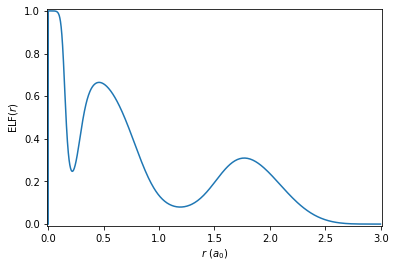
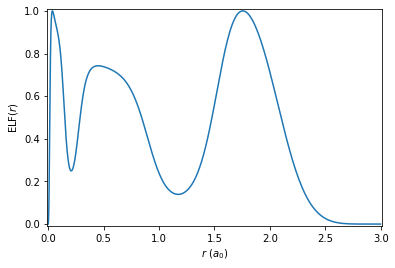
change introduction particularly bandstructure model

diff --git a/supp_info.tex b/supp_info.tex
@@ -386,16 +386,19 @@ background}\label{average-atom-models-theoretical-background}}
 In this section, we describe the average-atom model that we use and the
 equations that are solved. For a detailed derivation and discussion of
 the model, please see our earlier
-\href{https://arxiv.org/abs/2103.09928}{preprint}.
+\href{https://arxiv.org/abs/2103.09928}{preprint}. We shall first review
+the important aspects of this model; in the following sub-section, we
+explain in more detail the band-structure model of Massacrier \emph{et
+al} which we have also implemented in atoMEC.
 
-As discussed in the main test, we solve the spherically symmetric
+As discussed in the main text, we solve the spherically symmetric
 Kohn--Sham (KS) equations for an atom at finite temperature, with
 appropriate boundary conditions imposed on the orbitals intended to
 mimic the effect of interactions from electrons and nuclei in
 neighbouring atoms. The spherically symmetric KS equations are given by
 
 \begin{equation}
-\left[\frac{\textrm{d}^2}{\textrm{d}r} + \frac{2}{r}\frac{\textrm{d}}{\textrm{d}r} - \frac{l(l+1)}{r^2} \right] X_{\epsilon nl}(r) + 2 \left[\epsilon^{\tau}_{knl} - v_\textrm{s}[n](r) \right] X_{\epsilon nl}(r) = 0,
+\left[\frac{\textrm{d}^2}{\textrm{d}r} + \frac{2}{r}\frac{\textrm{d}}{\textrm{d}r} - \frac{l(l+1)}{r^2} \right] X_{nl}(r) + 2 \left[\epsilon^{\tau}_{knl} - v_\textrm{s}[n](r) \right] X_{nl}(r) = 0,
 \end{equation}
 
 where \(v_\textrm{s}[n](r)\) is the KS potential, given by
@@ -411,24 +414,14 @@ to the functional derivative of the xc free energy. As ever, due to the
 dependence of the KS potential on the density \(n(r)\), the KS equations
 must be solved iteratively until self-consistency is reached.
 
-One difference from the model presented in our earlier
-\href{https://arxiv.org/abs/2103.09928}{preprint} is that the orbitals
-now have an index \(\epsilon\), in addition to the \(n,l\) quantum
-numbers. This index is needed for the AA band-structure model, because
-it denotes the index of a given orbital within its energy band. If we do
-not employ the band-strucutre model, then this index is suppressed.
-
-In the general case, the density \(n(r)\) is constructed from the KS
-orbitals as
+The density \(n(r)\) is constructed from the orbitals as
 
 \begin{equation}
-    n(r) = 2\sum_{nl}(2l+1)
-    \int_{\epsilon_{nl}^-}^{\epsilon_{nl}^+} \textrm{d}{\epsilon} g_{nl}(\epsilon) f_{nl}(\epsilon,\mu,\tau) |X_{nl\epsilon}(r)|^2\,,
+n(r) = 2\sum_{nl}(2l+1) f_{nl}(\epsilon_{nl},\mu,\tau) |X_{nl}(r)|^2\,.
 \end{equation}
 
-where \(g_{nl}(\epsilon)\) is the density-of-states (DOS) and
-\(f_{nl}(\epsilon,\mu,\tau)\) the Fermi--Dirac (FD) distribution, given
-by
+where \(f_{nl}(\epsilon,\mu,\tau)\) the Fermi--Dirac (FD) distribution,
+given by
 
 \begin{equation}
 f_{nl}(\epsilon,\mu,\tau) = \frac{1}{1+e^{(\epsilon_{nl}-\mu)/\tau}}\,.
@@ -437,34 +430,10 @@ f_{nl}(\epsilon,\mu,\tau) = \frac{1}{1+e^{(\epsilon_{nl}-\mu)/\tau}}\,.
 The chemical potential \(\mu\) is determined by fixing the electron
 number \(N_\textrm{e}=4\pi\int\textrm{d}r r^2 n(r)\) to be equal to a
 pre-determined value (in this paper, \(N_\textrm{e}=Z\) in all cases).
-In practice, the integral in the density is expressed as a sum over
-discrete orbitals,
 
-\begin{equation}
- n(r) = 2\sum_{knl}(2l+1) w_{knl} g_{knl}(\epsilon_{knl},\epsilon_{nl}^\pm) f_{knl}(\epsilon_{knl},\mu,\tau) |X_{knl}(r)|^2\,,
-\end{equation}
-
-where \(w_{knl}\) is the integration weighting for the \(k\)-th index
-(with energy \(\epsilon_{knl}\)) of the \((n,l)\) energy band. We shall
-soon explain how the limits of the band energies \(\epsilon_{nl}^\pm\)
-are determined. When the band-structure model is not employed, the
-product \(w_{knl} g_{knl}(\epsilon_{knl}, \epsilon_{nl}^\pm)\equiv 1\)
-and hence the above expression simplifies to the more familiar
-expression for the density,
-
-\begin{equation}
-n(r) = 2\sum_{nl}(2l+1) f_{nl}(\epsilon_{nl},\mu,\tau) |X_{nl}(r)|^2\,.
-\end{equation}
-
-If the band-structure model is used, then the DOS function is given by
-
-\begin{gather}
-g_{knl}(\epsilon_{knl},\epsilon_{nl}^\pm) =\frac{2}{ \pi (\epsilon^+_{nl}-\epsilon_{nl}^-)^2} \sqrt{(\epsilon^+_{nl}-\epsilon_{knl})(\epsilon_{knl} - \epsilon^-_{nl})}\,.
-\end{gather}
-
-As discussed, we impose boundary conditions on the KS orbitals
-\(X_{nl}(r)\) which are intended to implicitly account for inter-atomic
-interactions. In our earlier
+As discussed in the main text, we impose boundary conditions on the KS
+orbitals \(X_{nl}(r)\) which are intended to implicitly account for
+inter-atomic interactions. In our earlier
 \href{https://arxiv.org/abs/2103.09928}{preprint}, we argued that a
 physically intuitive condition was to impose smoothness of the density
 at the edge of the WS cell,
@@ -485,6 +454,94 @@ which we refer to respectively as ``Dirichlet'' and ``Neumann''
 conditions. As discussed in the main text, the energy eigenvalues that
 result from these boundary conditions also define the upper and lower
 energy band limits \(\epsilon^{\pm}_{nl}\) for the band-structure model.
+We elaborate on this model in the following sub-section.
+
+\hypertarget{band-structure-aa-model}{%
+\subsection{Band-structure AA model}\label{band-structure-aa-model}}
+
+We here elaborate on the band-structure model proposed by Massacrier
+\emph{et al}, which we have implemented in atoMEC. In this model, the
+orbitals gain an extra index since we solve the KS equations for all
+energies in a given band. The KS equations thus become
+
+\begin{equation}
+\left[\frac{\textrm{d}^2}{\textrm{d}r} + \frac{2}{r}\frac{\textrm{d}}{\textrm{d}r} - \frac{l(l+1)}{r^2} \right] X_{\epsilon nl}(r) + 2 \left[\epsilon^{\tau}_{knl} - v_\textrm{s}[n](r) \right] X_{\epsilon nl}(r) = 0,
+\end{equation}
+
+and the density is given by
+
+\begin{equation}
+    n(r) = 2\sum_{nl}(2l+1)
+    \int_{\epsilon_{nl}^-}^{\epsilon_{nl}^+} \textrm{d}{\epsilon} g_{nl}(\epsilon) f_{nl}(\epsilon,\mu,\tau) |X_{nl\epsilon}(r)|^2\,,
+\end{equation}
+
+with the density-of-states (DOS) \(g_{nl}(\epsilon)\) given by the
+Hubbard DOS,
+
+\begin{gather}
+g_{nl}(\epsilon) =\frac{8}{ \pi \Delta_{nl}^2} \sqrt{(\epsilon^+_{nl}-\epsilon_{knl})(\epsilon_{knl} - \epsilon^-_{nl})}\,,\\
+\Delta_{nl} = \epsilon^+_{nl}-\epsilon_{nl}^- \,.
+\end{gather}
+
+In practise, the energy bands are of discretized, and the above integral
+becomes a summation over energies within each band which we now denote
+by index \(k\),
+
+\begin{gather}
+ n(r) = 2\sum_{knl}(2l+1) \delta\epsilon_{knl} g_{knl}(\epsilon_{knl},\epsilon_{nl}^\pm) f_{knl}(\epsilon_{knl},\mu,\tau) |X_{knl}(r)|^2\,,\\
+ g_{knl}(\epsilon_{knl},\epsilon_{nl}^\pm) =\frac{8}{ \pi \Delta_{nl}^2} \sqrt{(\epsilon^+_{nl}-\epsilon_{knl})(\epsilon_{knl} - \epsilon^-_{nl})}\,.
+\end{gather}
+
+We now simply the above expressions. To the best of our knowledge, this
+simplication was not discussed in the original paper. Firstly, we note
+that the energy spacing in the discretization of the energy band
+\(\delta\epsilon_{knl}\) can be written as
+
+\begin{equation}
+\delta\epsilon_{knl} = \frac{\epsilon^+_{nl} - \epsilon^-_{nl}}{N_k-1} = \frac{\Delta_{nl}}{N_k-1}\,,
+\end{equation}
+
+where \(N_k\) is the number of \(k\) points (the denominator is equal to
+\(N_k-1\) because there are \(N_k-1\) spacings for \(N_k\) total
+points). The product
+\(\delta\epsilon_{knl} \times g_{knl}(\epsilon_{knl},\epsilon_{nl}^\pm)\)
+therefore can be written as
+
+\begin{equation}
+\delta\epsilon_{knl} \times g_{knl}(\epsilon_{knl},\epsilon_{nl}^\pm) = \frac{8}{\pi\Delta_{nl}(N_k-1)} \sqrt{(\epsilon^+_{nl}-\epsilon_{knl})(\epsilon_{knl} - \epsilon^-_{nl})}\,.
+\end{equation}
+
+We then note that the energies in a band \(\epsilon_{knl}\) can be
+re-written as \begin{align}
+\epsilon_{knl} &= \epsilon_{nl}^- + \frac{k}{N_k-1}\Delta_{nl} \\
+               &= \epsilon_{nl}^+ + \frac{k-(N_k-1)}{N_k-1}\Delta_{nl}
+\end{align}
+
+Substituting the above expressions into the product
+\(\delta\epsilon_{knl} \times g_{knl}(\epsilon_{knl},\epsilon_{nl}^\pm)\)
+leads to the following expression:
+
+\begin{equation}
+\delta\epsilon_{knl} \times g_{knl}(\epsilon_{knl},\epsilon_{nl}^\pm) = \frac{8}{(N_k-1)^2}\sqrt{k(N_k-1-k)}\,.
+\end{equation}
+
+It is clear the above equation is in fact independent of the quantum
+numbers \(n\) and \(l\). The density \(n(r)\) can therefore be
+re-expressed as
+
+\begin{gather}
+n(r) = 2\sum_{k} w_k \sum_{nl}(2l+1) f_{knl}(\epsilon_{knl},\mu,\tau) |X_{knl}(r)|^2\,,\\
+w_k = \frac{8}{(N_k-1)^2}\sqrt{k(N_k-1-k)}\,.
+\end{gather}
+
+The above expression closely resembles the expression for the density in
+plane-wave DFT codes, since it has a summation over \(k\)-points and
+some weighting \(w_k\), very much like the \(\vec{k}\) point mesh for
+reciporacal space used in plane-wave DFT codes. It is also clear to see
+that when the concept of bands in the AA model is not employed
+(i.e.~when we use either the Dirichlet or Neumann conditions only), that
+\(N_k=1,w_k=1\) and the above expression reduces to the expression for
+the density in the previous sub-section.
 
     \hypertarget{introduction-to-atomec}{%
 \section{Introduction to atoMEC}\label{introduction-to-atomec}}
@@ -785,10 +842,10 @@ from this output:
 \PY{n}{plt}\PY{o}{.}\PY{n}{plot}\PY{p}{(}\PY{n}{rgrid}\PY{p}{,} \PY{n}{rgrid} \PY{o}{*}\PY{o}{*} \PY{l+m+mi}{2} \PY{o}{*} \PY{n}{dens\PYZus{}tot}\PY{p}{)}
 
 \PY{c+c1}{\PYZsh{} some formatting}
-\PY{n}{plt}\PY{o}{.}\PY{n}{xlim}\PY{p}{(}\PY{l+m+mi}{0}\PY{p}{,}\PY{l+m+mi}{3}\PY{p}{)}
-\PY{n}{plt}\PY{o}{.}\PY{n}{ylim}\PY{p}{(}\PY{l+m+mi}{0}\PY{p}{,}\PY{l+m+mf}{1.2}\PY{p}{)}
-\PY{n}{plt}\PY{o}{.}\PY{n}{xlabel}\PY{p}{(}\PY{l+s+sa}{r}\PY{l+s+s1}{\PYZsq{}}\PY{l+s+s1}{\PYZdl{}r}\PY{l+s+s1}{\PYZbs{}}\PY{l+s+s1}{ (a\PYZus{}0)\PYZdl{}}\PY{l+s+s1}{\PYZsq{}}\PY{p}{)}
-\PY{n}{plt}\PY{o}{.}\PY{n}{ylabel}\PY{p}{(}\PY{l+s+sa}{r}\PY{l+s+s1}{\PYZsq{}}\PY{l+s+s1}{\PYZdl{}r\PYZca{}2 n(r)}\PY{l+s+s1}{\PYZbs{}}\PY{l+s+s1}{ (a\PYZus{}0)\PYZca{}}\PY{l+s+s1}{\PYZob{}}\PY{l+s+s1}{\PYZhy{}1\PYZcb{}\PYZdl{}}\PY{l+s+s1}{\PYZsq{}}\PY{p}{)}
+\PY{n}{plt}\PY{o}{.}\PY{n}{xlim}\PY{p}{(}\PY{l+m+mi}{0}\PY{p}{,} \PY{l+m+mi}{3}\PY{p}{)}
+\PY{n}{plt}\PY{o}{.}\PY{n}{ylim}\PY{p}{(}\PY{l+m+mi}{0}\PY{p}{,} \PY{l+m+mf}{1.2}\PY{p}{)}
+\PY{n}{plt}\PY{o}{.}\PY{n}{xlabel}\PY{p}{(}\PY{l+s+sa}{r}\PY{l+s+s2}{\PYZdq{}}\PY{l+s+s2}{\PYZdl{}r}\PY{l+s+s2}{\PYZbs{}}\PY{l+s+s2}{ (a\PYZus{}0)\PYZdl{}}\PY{l+s+s2}{\PYZdq{}}\PY{p}{)}
+\PY{n}{plt}\PY{o}{.}\PY{n}{ylabel}\PY{p}{(}\PY{l+s+sa}{r}\PY{l+s+s2}{\PYZdq{}}\PY{l+s+s2}{\PYZdl{}r\PYZca{}2 n(r)}\PY{l+s+s2}{\PYZbs{}}\PY{l+s+s2}{ (a\PYZus{}0)\PYZca{}}\PY{l+s+s2}{\PYZob{}}\PY{l+s+s2}{\PYZhy{}1\PYZcb{}\PYZdl{}}\PY{l+s+s2}{\PYZdq{}}\PY{p}{)}
 \PY{n}{plt}\PY{o}{.}\PY{n}{savefig}\PY{p}{(}\PY{l+s+s2}{\PYZdq{}}\PY{l+s+s2}{figures/density\PYZus{}example.pdf}\PY{l+s+s2}{\PYZdq{}}\PY{p}{)}
 \end{Verbatim}
 \end{tcolorbox}
@@ -834,7 +891,7 @@ we shall increase the temperature (so more orbitals are required).
 \prompt{In}{incolor}{7}{\boxspacing}
 \begin{Verbatim}[commandchars=\\\{\}]
 \PY{c+c1}{\PYZsh{} set the temperature to 10 eV}
-\PY{n}{Al\PYZus{}atom}\PY{o}{.}\PY{n}{units\PYZus{}temp}\PY{o}{=}\PY{l+s+s2}{\PYZdq{}}\PY{l+s+s2}{eV}\PY{l+s+s2}{\PYZdq{}}
+\PY{n}{Al\PYZus{}atom}\PY{o}{.}\PY{n}{units\PYZus{}temp} \PY{o}{=} \PY{l+s+s2}{\PYZdq{}}\PY{l+s+s2}{eV}\PY{l+s+s2}{\PYZdq{}}
 \PY{n}{Al\PYZus{}atom}\PY{o}{.}\PY{n}{temp} \PY{o}{=} \PY{l+m+mi}{10}
 
 \PY{c+c1}{\PYZsh{} run the calculation again}
@@ -927,8 +984,9 @@ cores.
     \begin{tcolorbox}[breakable, size=fbox, boxrule=1pt, pad at break*=1mm,colback=cellbackground, colframe=cellborder]
 \prompt{In}{incolor}{8}{\boxspacing}
 \begin{Verbatim}[commandchars=\\\{\}]
-\PY{c+c1}{\PYZsh{}enable parallelization}
+\PY{c+c1}{\PYZsh{} enable parallelization}
 \PY{k+kn}{from} \PY{n+nn}{atoMEC} \PY{k+kn}{import} \PY{n}{config}
+
 \PY{n}{config}\PY{o}{.}\PY{n}{numcores} \PY{o}{=} \PY{o}{\PYZhy{}}\PY{l+m+mi}{1}
 
 \PY{c+c1}{\PYZsh{} re\PYZhy{}run the calculation with larger lmax}
@@ -1034,11 +1092,13 @@ as running all the calculations will take some time.
 \PY{c+c1}{\PYZsh{} loop over the ngrid array}
 \PY{k}{for} \PY{n}{i}\PY{p}{,} \PY{n}{ngrid} \PY{o+ow}{in} \PY{n+nb}{enumerate}\PY{p}{(}\PY{n}{ngrid\PYZus{}test}\PY{p}{)}\PY{p}{:}
     \PY{n+nb}{print}\PY{p}{(}\PY{l+s+s2}{\PYZdq{}}\PY{l+s+s2}{Running calculation for }\PY{l+s+s2}{\PYZdq{}}\PY{p}{,} \PY{n}{ngrid}\PY{p}{,} \PY{l+s+s2}{\PYZdq{}}\PY{l+s+s2}{grid pts}\PY{l+s+s2}{\PYZdq{}}\PY{p}{)}
-    \PY{n}{output} \PY{o}{=} \PY{n}{Al\PYZus{}model}\PY{o}{.}\PY{n}{CalcEnergy}\PY{p}{(}\PY{n}{nmax}\PY{p}{,} \PY{n}{lmax}\PY{p}{,} \PY{n}{grid\PYZus{}params}\PY{o}{=}\PY{p}{\PYZob{}}\PY{l+s+s2}{\PYZdq{}}\PY{l+s+s2}{ngrid}\PY{l+s+s2}{\PYZdq{}}\PY{p}{:} \PY{n}{ngrid}\PY{p}{\PYZcb{}}\PY{p}{,} \PY{n}{write\PYZus{}info}\PY{o}{=}\PY{k+kc}{False}\PY{p}{)}
-    \PY{n}{output\PYZus{}arr}\PY{p}{[}\PY{n}{i}\PY{p}{,}\PY{l+m+mi}{0}\PY{p}{]} \PY{o}{=} \PY{n}{ngrid}
-    \PY{n}{output\PYZus{}arr}\PY{p}{[}\PY{n}{i}\PY{p}{,}\PY{l+m+mi}{1}\PY{p}{]} \PY{o}{=} \PY{n}{output}\PY{p}{[}\PY{l+s+s2}{\PYZdq{}}\PY{l+s+s2}{energy}\PY{l+s+s2}{\PYZdq{}}\PY{p}{]}\PY{o}{.}\PY{n}{F\PYZus{}tot}
-    \PY{n}{output\PYZus{}arr}\PY{p}{[}\PY{n}{i}\PY{p}{,}\PY{l+m+mi}{2}\PY{p}{]} \PY{o}{=} \PY{n}{output}\PY{p}{[}\PY{l+s+s2}{\PYZdq{}}\PY{l+s+s2}{orbitals}\PY{l+s+s2}{\PYZdq{}}\PY{p}{]}\PY{o}{.}\PY{n}{eigvals}\PY{p}{[}\PY{l+m+mi}{0}\PY{p}{,}\PY{l+m+mi}{0}\PY{p}{,}\PY{l+m+mi}{0}\PY{p}{,}\PY{l+m+mi}{0}\PY{p}{]}
-    \PY{n}{output\PYZus{}arr}\PY{p}{[}\PY{n}{i}\PY{p}{,}\PY{l+m+mi}{3}\PY{p}{]} \PY{o}{=} \PY{n}{config}\PY{o}{.}\PY{n}{mu}
+    \PY{n}{output} \PY{o}{=} \PY{n}{Al\PYZus{}model}\PY{o}{.}\PY{n}{CalcEnergy}\PY{p}{(}
+        \PY{n}{nmax}\PY{p}{,} \PY{n}{lmax}\PY{p}{,} \PY{n}{grid\PYZus{}params}\PY{o}{=}\PY{p}{\PYZob{}}\PY{l+s+s2}{\PYZdq{}}\PY{l+s+s2}{ngrid}\PY{l+s+s2}{\PYZdq{}}\PY{p}{:} \PY{n}{ngrid}\PY{p}{\PYZcb{}}\PY{p}{,} \PY{n}{write\PYZus{}info}\PY{o}{=}\PY{k+kc}{False}
+    \PY{p}{)}
+    \PY{n}{output\PYZus{}arr}\PY{p}{[}\PY{n}{i}\PY{p}{,} \PY{l+m+mi}{0}\PY{p}{]} \PY{o}{=} \PY{n}{ngrid}
+    \PY{n}{output\PYZus{}arr}\PY{p}{[}\PY{n}{i}\PY{p}{,} \PY{l+m+mi}{1}\PY{p}{]} \PY{o}{=} \PY{n}{output}\PY{p}{[}\PY{l+s+s2}{\PYZdq{}}\PY{l+s+s2}{energy}\PY{l+s+s2}{\PYZdq{}}\PY{p}{]}\PY{o}{.}\PY{n}{F\PYZus{}tot}
+    \PY{n}{output\PYZus{}arr}\PY{p}{[}\PY{n}{i}\PY{p}{,} \PY{l+m+mi}{2}\PY{p}{]} \PY{o}{=} \PY{n}{output}\PY{p}{[}\PY{l+s+s2}{\PYZdq{}}\PY{l+s+s2}{orbitals}\PY{l+s+s2}{\PYZdq{}}\PY{p}{]}\PY{o}{.}\PY{n}{eigvals}\PY{p}{[}\PY{l+m+mi}{0}\PY{p}{,} \PY{l+m+mi}{0}\PY{p}{,} \PY{l+m+mi}{0}\PY{p}{,} \PY{l+m+mi}{0}\PY{p}{]}
+    \PY{n}{output\PYZus{}arr}\PY{p}{[}\PY{n}{i}\PY{p}{,} \PY{l+m+mi}{3}\PY{p}{]} \PY{o}{=} \PY{n}{config}\PY{o}{.}\PY{n}{mu}
 \end{Verbatim}
 \end{tcolorbox}
 
@@ -1131,7 +1191,7 @@ the neighbouring spheres and so is not part of an energy band.
 \prompt{In}{incolor}{11}{\boxspacing}
 \begin{Verbatim}[commandchars=\\\{\}]
 \PY{c+c1}{\PYZsh{} set up the nkpts array}
-\PY{n}{nkpts\PYZus{}arr} \PY{o}{=} \PY{n}{np}\PY{o}{.}\PY{n}{arange}\PY{p}{(}\PY{l+m+mi}{10}\PY{p}{,}\PY{l+m+mi}{110}\PY{p}{,}\PY{l+m+mi}{10}\PY{p}{)}
+\PY{n}{nkpts\PYZus{}arr} \PY{o}{=} \PY{n}{np}\PY{o}{.}\PY{n}{arange}\PY{p}{(}\PY{l+m+mi}{10}\PY{p}{,} \PY{l+m+mi}{110}\PY{p}{,} \PY{l+m+mi}{10}\PY{p}{)}
 
 \PY{c+c1}{\PYZsh{} change the boundary condition}
 \PY{n}{Al\PYZus{}model}\PY{o}{.}\PY{n}{bc} \PY{o}{=} \PY{l+s+s2}{\PYZdq{}}\PY{l+s+s2}{bands}\PY{l+s+s2}{\PYZdq{}}
@@ -1143,11 +1203,17 @@ the neighbouring spheres and so is not part of an energy band.
 \PY{c+c1}{\PYZsh{} use a coarse value of ngrid since we are performing an independent kpt check}
 \PY{k}{for} \PY{n}{i}\PY{p}{,} \PY{n}{nkpts} \PY{o+ow}{in} \PY{n+nb}{enumerate}\PY{p}{(}\PY{n}{nkpts\PYZus{}arr}\PY{p}{)}\PY{p}{:}
     \PY{n+nb}{print}\PY{p}{(}\PY{l+s+s2}{\PYZdq{}}\PY{l+s+s2}{Running calculation for }\PY{l+s+s2}{\PYZdq{}}\PY{p}{,} \PY{n}{nkpts}\PY{p}{,} \PY{l+s+s2}{\PYZdq{}}\PY{l+s+s2}{orbitals per band}\PY{l+s+s2}{\PYZdq{}}\PY{p}{)}
-    \PY{n}{output} \PY{o}{=} \PY{n}{Al\PYZus{}model}\PY{o}{.}\PY{n}{CalcEnergy}\PY{p}{(}\PY{n}{nmax}\PY{p}{,} \PY{n}{lmax}\PY{p}{,} \PY{n}{grid\PYZus{}params}\PY{o}{=}\PY{p}{\PYZob{}}\PY{l+s+s2}{\PYZdq{}}\PY{l+s+s2}{ngrid}\PY{l+s+s2}{\PYZdq{}}\PY{p}{:} \PY{l+m+mi}{1000}\PY{p}{\PYZcb{}}\PY{p}{,} \PY{n}{write\PYZus{}info}\PY{o}{=}\PY{k+kc}{False}\PY{p}{,} \PY{n}{band\PYZus{}params}\PY{o}{=}\PY{p}{\PYZob{}}\PY{l+s+s2}{\PYZdq{}}\PY{l+s+s2}{nkpts}\PY{l+s+s2}{\PYZdq{}}\PY{p}{:}\PY{n}{nkpts}\PY{p}{\PYZcb{}}\PY{p}{)}
-    \PY{n}{output\PYZus{}arr}\PY{p}{[}\PY{n}{i}\PY{p}{,}\PY{l+m+mi}{0}\PY{p}{]} \PY{o}{=} \PY{n}{nkpts}
-    \PY{n}{output\PYZus{}arr}\PY{p}{[}\PY{n}{i}\PY{p}{,}\PY{l+m+mi}{1}\PY{p}{]} \PY{o}{=} \PY{n}{output}\PY{p}{[}\PY{l+s+s2}{\PYZdq{}}\PY{l+s+s2}{energy}\PY{l+s+s2}{\PYZdq{}}\PY{p}{]}\PY{o}{.}\PY{n}{F\PYZus{}tot}
-    \PY{n}{output\PYZus{}arr}\PY{p}{[}\PY{n}{i}\PY{p}{,}\PY{l+m+mi}{2}\PY{p}{]} \PY{o}{=} \PY{n}{output}\PY{p}{[}\PY{l+s+s2}{\PYZdq{}}\PY{l+s+s2}{orbitals}\PY{l+s+s2}{\PYZdq{}}\PY{p}{]}\PY{o}{.}\PY{n}{eigvals}\PY{p}{[}\PY{l+m+mi}{0}\PY{p}{,}\PY{l+m+mi}{0}\PY{p}{,}\PY{l+m+mi}{0}\PY{p}{,}\PY{l+m+mi}{2}\PY{p}{]}
-    \PY{n}{output\PYZus{}arr}\PY{p}{[}\PY{n}{i}\PY{p}{,}\PY{l+m+mi}{3}\PY{p}{]} \PY{o}{=} \PY{n}{config}\PY{o}{.}\PY{n}{mu}
+    \PY{n}{output} \PY{o}{=} \PY{n}{Al\PYZus{}model}\PY{o}{.}\PY{n}{CalcEnergy}\PY{p}{(}
+        \PY{n}{nmax}\PY{p}{,}
+        \PY{n}{lmax}\PY{p}{,}
+        \PY{n}{grid\PYZus{}params}\PY{o}{=}\PY{p}{\PYZob{}}\PY{l+s+s2}{\PYZdq{}}\PY{l+s+s2}{ngrid}\PY{l+s+s2}{\PYZdq{}}\PY{p}{:} \PY{l+m+mi}{1000}\PY{p}{\PYZcb{}}\PY{p}{,}
+        \PY{n}{write\PYZus{}info}\PY{o}{=}\PY{k+kc}{False}\PY{p}{,}
+        \PY{n}{band\PYZus{}params}\PY{o}{=}\PY{p}{\PYZob{}}\PY{l+s+s2}{\PYZdq{}}\PY{l+s+s2}{nkpts}\PY{l+s+s2}{\PYZdq{}}\PY{p}{:} \PY{n}{nkpts}\PY{p}{\PYZcb{}}\PY{p}{,}
+    \PY{p}{)}
+    \PY{n}{output\PYZus{}arr}\PY{p}{[}\PY{n}{i}\PY{p}{,} \PY{l+m+mi}{0}\PY{p}{]} \PY{o}{=} \PY{n}{nkpts}
+    \PY{n}{output\PYZus{}arr}\PY{p}{[}\PY{n}{i}\PY{p}{,} \PY{l+m+mi}{1}\PY{p}{]} \PY{o}{=} \PY{n}{output}\PY{p}{[}\PY{l+s+s2}{\PYZdq{}}\PY{l+s+s2}{energy}\PY{l+s+s2}{\PYZdq{}}\PY{p}{]}\PY{o}{.}\PY{n}{F\PYZus{}tot}
+    \PY{n}{output\PYZus{}arr}\PY{p}{[}\PY{n}{i}\PY{p}{,} \PY{l+m+mi}{2}\PY{p}{]} \PY{o}{=} \PY{n}{output}\PY{p}{[}\PY{l+s+s2}{\PYZdq{}}\PY{l+s+s2}{orbitals}\PY{l+s+s2}{\PYZdq{}}\PY{p}{]}\PY{o}{.}\PY{n}{eigvals}\PY{p}{[}\PY{l+m+mi}{0}\PY{p}{,} \PY{l+m+mi}{0}\PY{p}{,} \PY{l+m+mi}{0}\PY{p}{,} \PY{l+m+mi}{2}\PY{p}{]}
+    \PY{n}{output\PYZus{}arr}\PY{p}{[}\PY{n}{i}\PY{p}{,} \PY{l+m+mi}{3}\PY{p}{]} \PY{o}{=} \PY{n}{config}\PY{o}{.}\PY{n}{mu}
 \end{Verbatim}
 \end{tcolorbox}
 
@@ -1346,7 +1412,7 @@ In atoMEC the ELF is accessed through the
 and plot the ELF for our Aluminium example.
 
     \begin{tcolorbox}[breakable, size=fbox, boxrule=1pt, pad at break*=1mm,colback=cellbackground, colframe=cellborder]
-\prompt{In}{incolor}{21}{\boxspacing}
+\prompt{In}{incolor}{26}{\boxspacing}
 \begin{Verbatim}[commandchars=\\\{\}]
 \PY{c+c1}{\PYZsh{} import localization module}
 \PY{k+kn}{from} \PY{n+nn}{atoMEC}\PY{n+nn}{.}\PY{n+nn}{postprocess} \PY{k+kn}{import} \PY{n}{localization}
@@ -1354,7 +1420,7 @@ and plot the ELF for our Aluminium example.
 \PY{c+c1}{\PYZsh{} Set up the ELF object}
 \PY{c+c1}{\PYZsh{} use the \PYZdq{}density\PYZdq{} version of the ELF (uses second order gradient expansion for KED)}
 
-\PY{n}{ELF\PYZus{}Al} \PY{o}{=} \PY{n}{localization}\PY{o}{.}\PY{n}{ELFTools}\PY{p}{(}\PY{n}{output}\PY{p}{[}\PY{l+s+s2}{\PYZdq{}}\PY{l+s+s2}{orbitals}\PY{l+s+s2}{\PYZdq{}}\PY{p}{]}\PY{p}{,} \PY{n}{output}\PY{p}{[}\PY{l+s+s2}{\PYZdq{}}\PY{l+s+s2}{density}\PY{l+s+s2}{\PYZdq{}}\PY{p}{]}\PY{p}{,} \PY{n}{method}\PY{o}{=}\PY{l+s+s2}{\PYZdq{}}\PY{l+s+s2}{orbitals}\PY{l+s+s2}{\PYZdq{}}\PY{p}{)}
+\PY{n}{ELF\PYZus{}Al} \PY{o}{=} \PY{n}{localization}\PY{o}{.}\PY{n}{ELFTools}\PY{p}{(}\PY{n}{output}\PY{p}{[}\PY{l+s+s2}{\PYZdq{}}\PY{l+s+s2}{orbitals}\PY{l+s+s2}{\PYZdq{}}\PY{p}{]}\PY{p}{,} \PY{n}{output}\PY{p}{[}\PY{l+s+s2}{\PYZdq{}}\PY{l+s+s2}{density}\PY{l+s+s2}{\PYZdq{}}\PY{p}{]}\PY{p}{,} \PY{n}{method}\PY{o}{=}\PY{l+s+s2}{\PYZdq{}}\PY{l+s+s2}{density}\PY{l+s+s2}{\PYZdq{}}\PY{p}{)}
 \PY{n}{xgrid} \PY{o}{=} \PY{n}{ELF\PYZus{}Al}\PY{o}{.}\PY{n}{\PYZus{}xgrid}
 \PY{n}{rgrid} \PY{o}{=} \PY{n}{np}\PY{o}{.}\PY{n}{exp}\PY{p}{(}\PY{n}{xgrid}\PY{p}{)}
 
@@ -1364,12 +1430,11 @@ and plot the ELF for our Aluminium example.
 \PY{c+c1}{\PYZsh{} plot the ELF function}
 \PY{n}{plt}\PY{o}{.}\PY{n}{plot}\PY{p}{(}\PY{n}{rgrid}\PY{p}{,} \PY{n}{ELF\PYZus{}func}\PY{p}{[}\PY{l+m+mi}{0}\PY{p}{]}\PY{p}{)}
 
-\PY{n}{plt}\PY{o}{.}\PY{n}{xlim}\PY{p}{(}\PY{o}{\PYZhy{}}\PY{l+m+mf}{0.01}\PY{p}{,}\PY{l+m+mf}{3.01}\PY{p}{)}
-\PY{n}{plt}\PY{o}{.}\PY{n}{ylim}\PY{p}{(}\PY{o}{\PYZhy{}}\PY{l+m+mf}{0.01}\PY{p}{,}\PY{l+m+mf}{1.01}\PY{p}{)}
+\PY{n}{plt}\PY{o}{.}\PY{n}{xlim}\PY{p}{(}\PY{o}{\PYZhy{}}\PY{l+m+mf}{0.01}\PY{p}{,} \PY{l+m+mf}{3.01}\PY{p}{)}
+\PY{n}{plt}\PY{o}{.}\PY{n}{ylim}\PY{p}{(}\PY{o}{\PYZhy{}}\PY{l+m+mf}{0.01}\PY{p}{,} \PY{l+m+mf}{1.01}\PY{p}{)}
 \PY{n}{plt}\PY{o}{.}\PY{n}{xlabel}\PY{p}{(}\PY{l+s+sa}{r}\PY{l+s+s2}{\PYZdq{}}\PY{l+s+s2}{\PYZdl{}r}\PY{l+s+s2}{\PYZbs{}}\PY{l+s+s2}{ (a\PYZus{}0)\PYZdl{}}\PY{l+s+s2}{\PYZdq{}}\PY{p}{)}
 \PY{n}{plt}\PY{o}{.}\PY{n}{ylabel}\PY{p}{(}\PY{l+s+sa}{r}\PY{l+s+s2}{\PYZdq{}}\PY{l+s+s2}{ELF\PYZdl{}(r)\PYZdl{}}\PY{l+s+s2}{\PYZdq{}}\PY{p}{)}
 \PY{n}{plt}\PY{o}{.}\PY{n}{savefig}\PY{p}{(}\PY{l+s+s2}{\PYZdq{}}\PY{l+s+s2}{figures/ELF\PYZus{}example.pdf}\PY{l+s+s2}{\PYZdq{}}\PY{p}{)}
-\PY{c+c1}{\PYZsh{}plt.show()}
 \end{Verbatim}
 \end{tcolorbox}
 
@@ -1385,21 +1450,20 @@ paper. In atoMEC, we can access this data from the \texttt{N\_shell}
 property of the \texttt{ELFTools} object:
 
     \begin{tcolorbox}[breakable, size=fbox, boxrule=1pt, pad at break*=1mm,colback=cellbackground, colframe=cellborder]
-\prompt{In}{incolor}{20}{\boxspacing}
+\prompt{In}{incolor}{27}{\boxspacing}
 \begin{Verbatim}[commandchars=\\\{\}]
 \PY{c+c1}{\PYZsh{} extract the number of electrons per shell}
 \PY{n}{N\PYZus{}s} \PY{o}{=} \PY{n}{ELF\PYZus{}Al}\PY{o}{.}\PY{n}{N\PYZus{}shell}\PY{p}{[}\PY{l+m+mi}{0}\PY{p}{]}
 
 \PY{k}{for} \PY{n}{i} \PY{o+ow}{in} \PY{n+nb}{range}\PY{p}{(}\PY{n+nb}{len}\PY{p}{(}\PY{n}{N\PYZus{}s}\PY{p}{)}\PY{p}{)}\PY{p}{:}
-    \PY{n+nb}{print}\PY{p}{(}\PY{l+s+s2}{\PYZdq{}}\PY{l+s+s2}{The number of electrons in the n =}\PY{l+s+s2}{\PYZdq{}}\PY{p}{,}\PY{n}{i}\PY{o}{+}\PY{l+m+mi}{1}\PY{p}{,}\PY{l+s+s2}{\PYZdq{}}\PY{l+s+s2}{shell =}\PY{l+s+s2}{\PYZdq{}}\PY{p}{,}\PY{n+nb}{round}\PY{p}{(}\PY{n}{N\PYZus{}s}\PY{p}{[}\PY{n}{i}\PY{p}{]}\PY{p}{,}\PY{l+m+mi}{2}\PY{p}{)}\PY{p}{)}
+    \PY{n+nb}{print}\PY{p}{(}\PY{l+s+s2}{\PYZdq{}}\PY{l+s+s2}{The number of electrons in the n =}\PY{l+s+s2}{\PYZdq{}}\PY{p}{,} \PY{n}{i} \PY{o}{+} \PY{l+m+mi}{1}\PY{p}{,} \PY{l+s+s2}{\PYZdq{}}\PY{l+s+s2}{shell =}\PY{l+s+s2}{\PYZdq{}}\PY{p}{,} \PY{n+nb}{round}\PY{p}{(}\PY{n}{N\PYZus{}s}\PY{p}{[}\PY{n}{i}\PY{p}{]}\PY{p}{,} \PY{l+m+mi}{2}\PY{p}{)}\PY{p}{)}
 \end{Verbatim}
 \end{tcolorbox}
 
     \begin{Verbatim}[commandchars=\\\{\}]
 The number of electrons in the n = 1 shell = 2.13
-The number of electrons in the n = 2 shell = 7.77
-The number of electrons in the n = 3 shell = 0.04
-The number of electrons in the n = 4 shell = 3.0
+The number of electrons in the n = 2 shell = 7.72
+The number of electrons in the n = 3 shell = 3.11
     \end{Verbatim}
 
     These numbers approximately match up to what we expect from ambient
